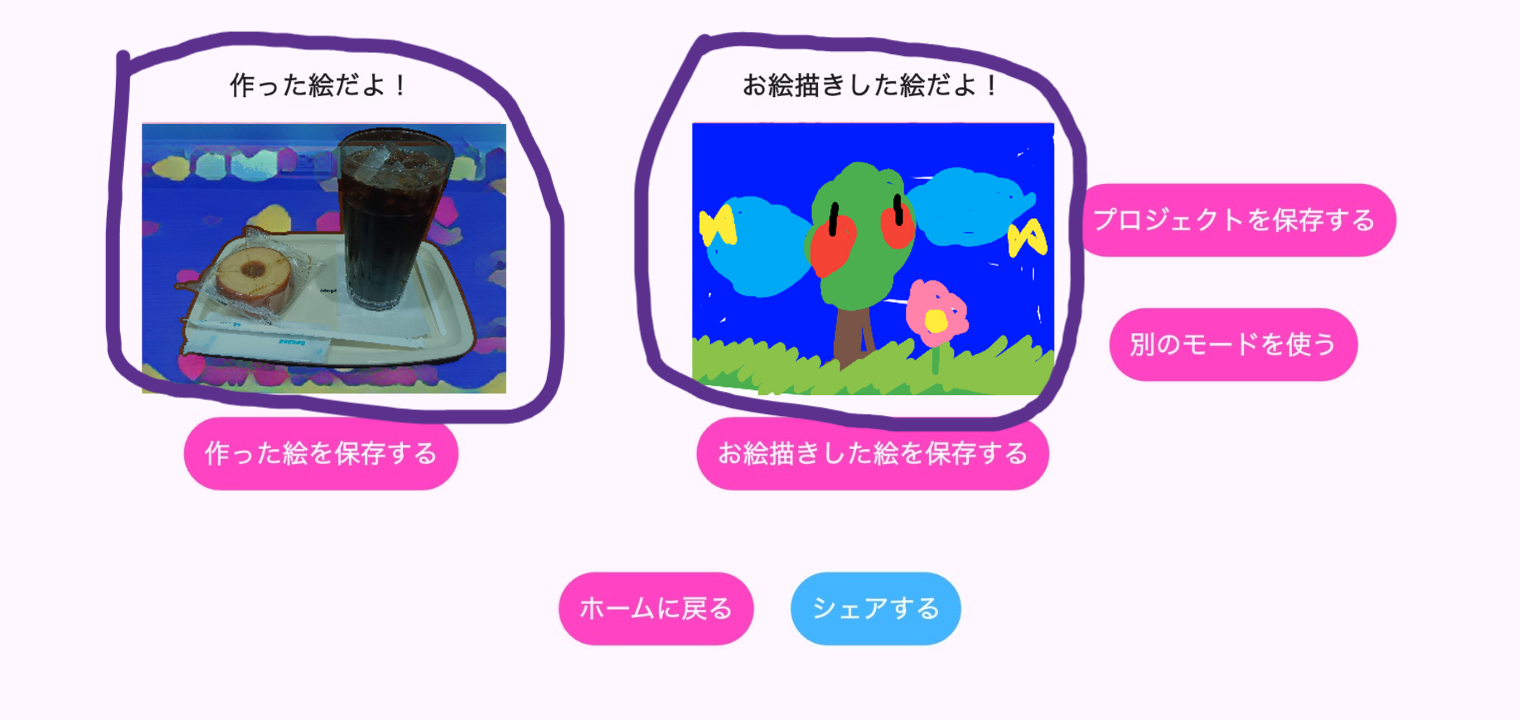
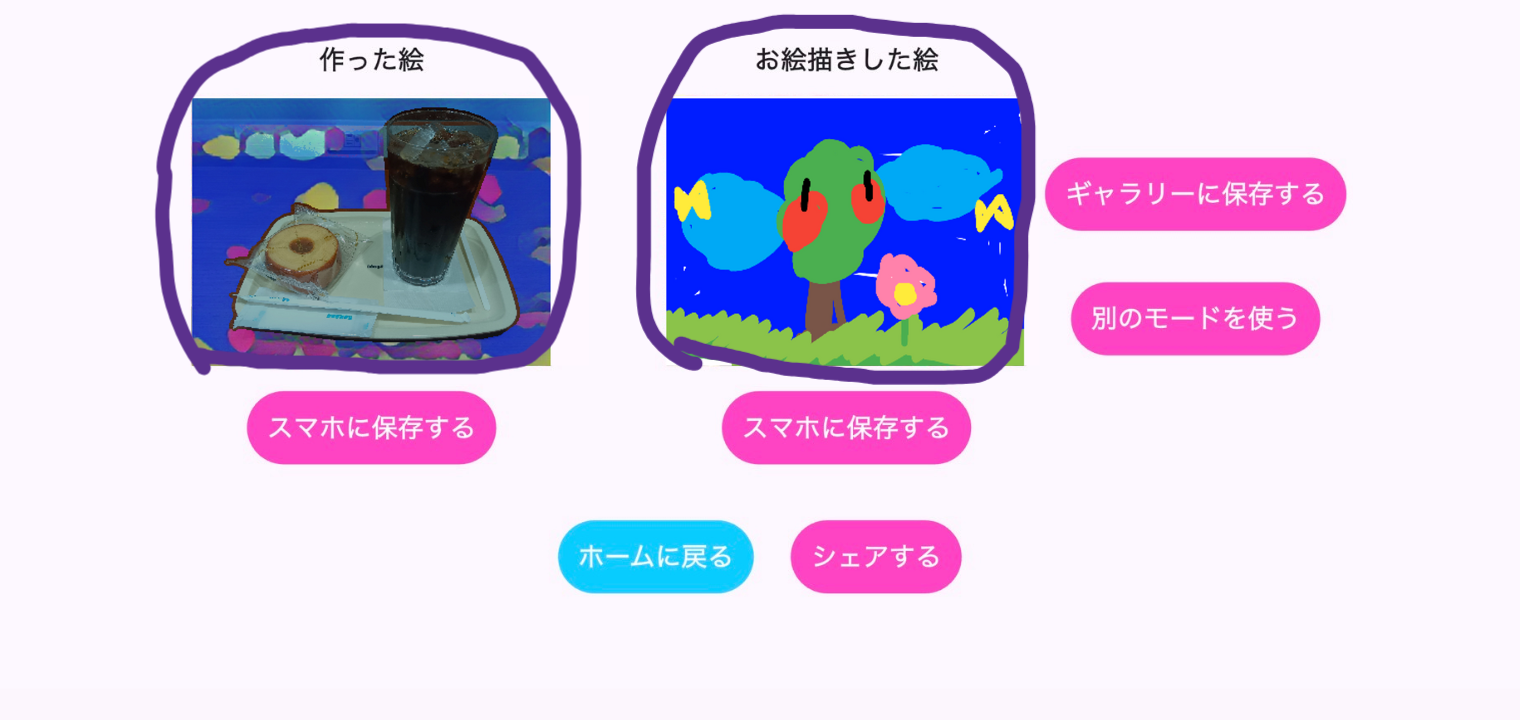
repair_tutorial_again

diff --git a/lib/screens/tutorial_page.dart b/lib/screens/tutorial_page.dart
@@ -152,7 +152,7 @@ class _TutorialPageState extends State<TutorialPage> {
             ? "スタンプつかって\nひととおりかいたら、いっかいいろをまぜるカラーブレンドをつかってみよう"
             : "スタンプ使って\n一通り描いたら、一回色を混ぜるカラーブレンドを使ってみよう",
         languageProvider.isHiragana ? "ここではふたつのいろをまぜるよ" : "ここでは2つの色を混ぜるよ",
-        languageProvider.isHiragana ? "いろ1のしかくをおしてみよう" : "色1の四角を押してみよう",
+        languageProvider.isHiragana ? "いろ1のまるをおしてみよう" : "色1の丸を押してみよう",
         languageProvider.isHiragana
             ? "おしたらみぎのパレットからすきないろをえらぶよ"
             : "押したら右のパレットから好きな色を選ぶよ",
@@ -217,8 +217,8 @@ class _TutorialPageState extends State<TutorialPage> {
       List<String> chapters4 = [
         languageProvider.isHiragana ? "かんせいしたあとのがめんだよ" : "完成した後の画面だよ",
         languageProvider.isHiragana
-            ? "もしえなどをほぞんしてきろくしたいばあいは\n「プロジェクトをほぞん」をおしてね"
-            : "もし絵などを保存して記録したい場合は\n「プロジェクトを保存」を押してね",
+            ? "もしアートなどをほぞんしてきろくしたいばあいは\n「ギャラリーにほぞんする」をおしてね"
+            : "もしアートなどを保存して記録したい場合は\n「ギャラリーに保存する」を押してね",
         languageProvider.isHiragana
             ? "そうするとほぞんようのウインドウがでてくるよ"
             : "そうすると保存用のウィンドウが出てくるよ",
@@ -256,8 +256,8 @@ class _TutorialPageState extends State<TutorialPage> {
         languageProvider.isHiragana ? "できたら「すすむ」をおすよ" : "できたら「進む」を押すよ",
         languageProvider.isHiragana ? "そうするとほぞんできたよ" : "そうすると保存できたよ",
         languageProvider.isHiragana
-            ? "さいご、ギャラリーにてほぞんしたプロジェクトがみれるよ\nくわしくはギャラリーのあそびかたをみてね\nこれであそびかたはおわりだよ！"
-            : "最後、ギャラリーにて保存したプロジェクトが見れるよ\n詳しくはギャラリーの遊び方を見てね\nこれで遊び方は終わりだよ！"
+            ? "さいご、ギャラリーにてほぞんしたアートがみれるよ\nくわしくはギャラリーのあそびかたをみてね\nこれであそびかたはおわりだよ！"
+            : "最後、ギャラリーにて保存したアートが見れるよ\n詳しくはギャラリーの遊び方を見てね\nこれで遊び方は終わりだよ！"
       ];
 
       List<String> chapters5 = [
@@ -287,12 +287,12 @@ class _TutorialPageState extends State<TutorialPage> {
 
       List<String> chapters6 = [
         languageProvider.isHiragana
-            ? "ほぞんしたプロジェクトがあるギャラリーはホームがめんからいけるよ"
-            : "保存したプロジェクトがあるギャラリーはホーム画面から行けるよ",
+            ? "ほぞんしたアートがあるギャラリーはホームがめんからいけるよ"
+            : "保存したアートがあるギャラリーはホーム画面から行けるよ",
         languageProvider.isHiragana ? "「ギャラリーをみる」をおしてね" : "「ギャラリーを見る」を押してね",
         languageProvider.isHiragana
-            ? "ギャラリーにはいままでほぞんしたプロジェクトがあるよ"
-            : "ギャラリーには今まで保存したプロジェクトがあるよ",
+            ? "ギャラリーにはいままでほぞんしたアートがあるよ"
+            : "ギャラリーには今まで保存したアートがあるよ",
         languageProvider.isHiragana
             ? "きろくしたえをひとつえらぶよ\nためしにひだりの「ゆうやけシャーベット」をえらんでみるね"
             : "記録した絵を１つ選ぶよ\n試しに左の「夕焼けシャーベット」を選んでみるね",
@@ -313,11 +313,11 @@ class _TutorialPageState extends State<TutorialPage> {
             ? "そうするとしょうさいなきもちとえをつくったときにつかったしゃしんがみれるよ"
             : "そうすると詳細な気持ちと絵を作った時に使った写真が見れるよ",
         languageProvider.isHiragana
-            ? "プロジェクトをさくじょすることもできるよ"
-            : "プロジェクトを削除することもできるよ",
+            ? "ほぞんしたえをさくじょすることもできるよ"
+            : "保存した絵を削除することもできるよ",
         languageProvider.isHiragana
-            ? "そうすると、さくじょのかくにんがくるよ\n「さくじょする」をおしたらそのプロジェクトがきえるよ"
-            : "そうすると、削除の確認がくるよ\n「削除する」を押したらそのプロジェクトが消えるよ",
+            ? "そうすると、さくじょのかくにんがくるよ\n「さくじょする」をおしたらそのほぞんしたえやタイトルがきえるよ"
+            : "そうすると、削除の確認がくるよ\n「削除する」を押したらその保存した絵やタイトルが消えるよ",
         languageProvider.isHiragana ? "これであそびかたはおわりだよ！" : "これで遊び方は終わりだよ！"
       ];
 
